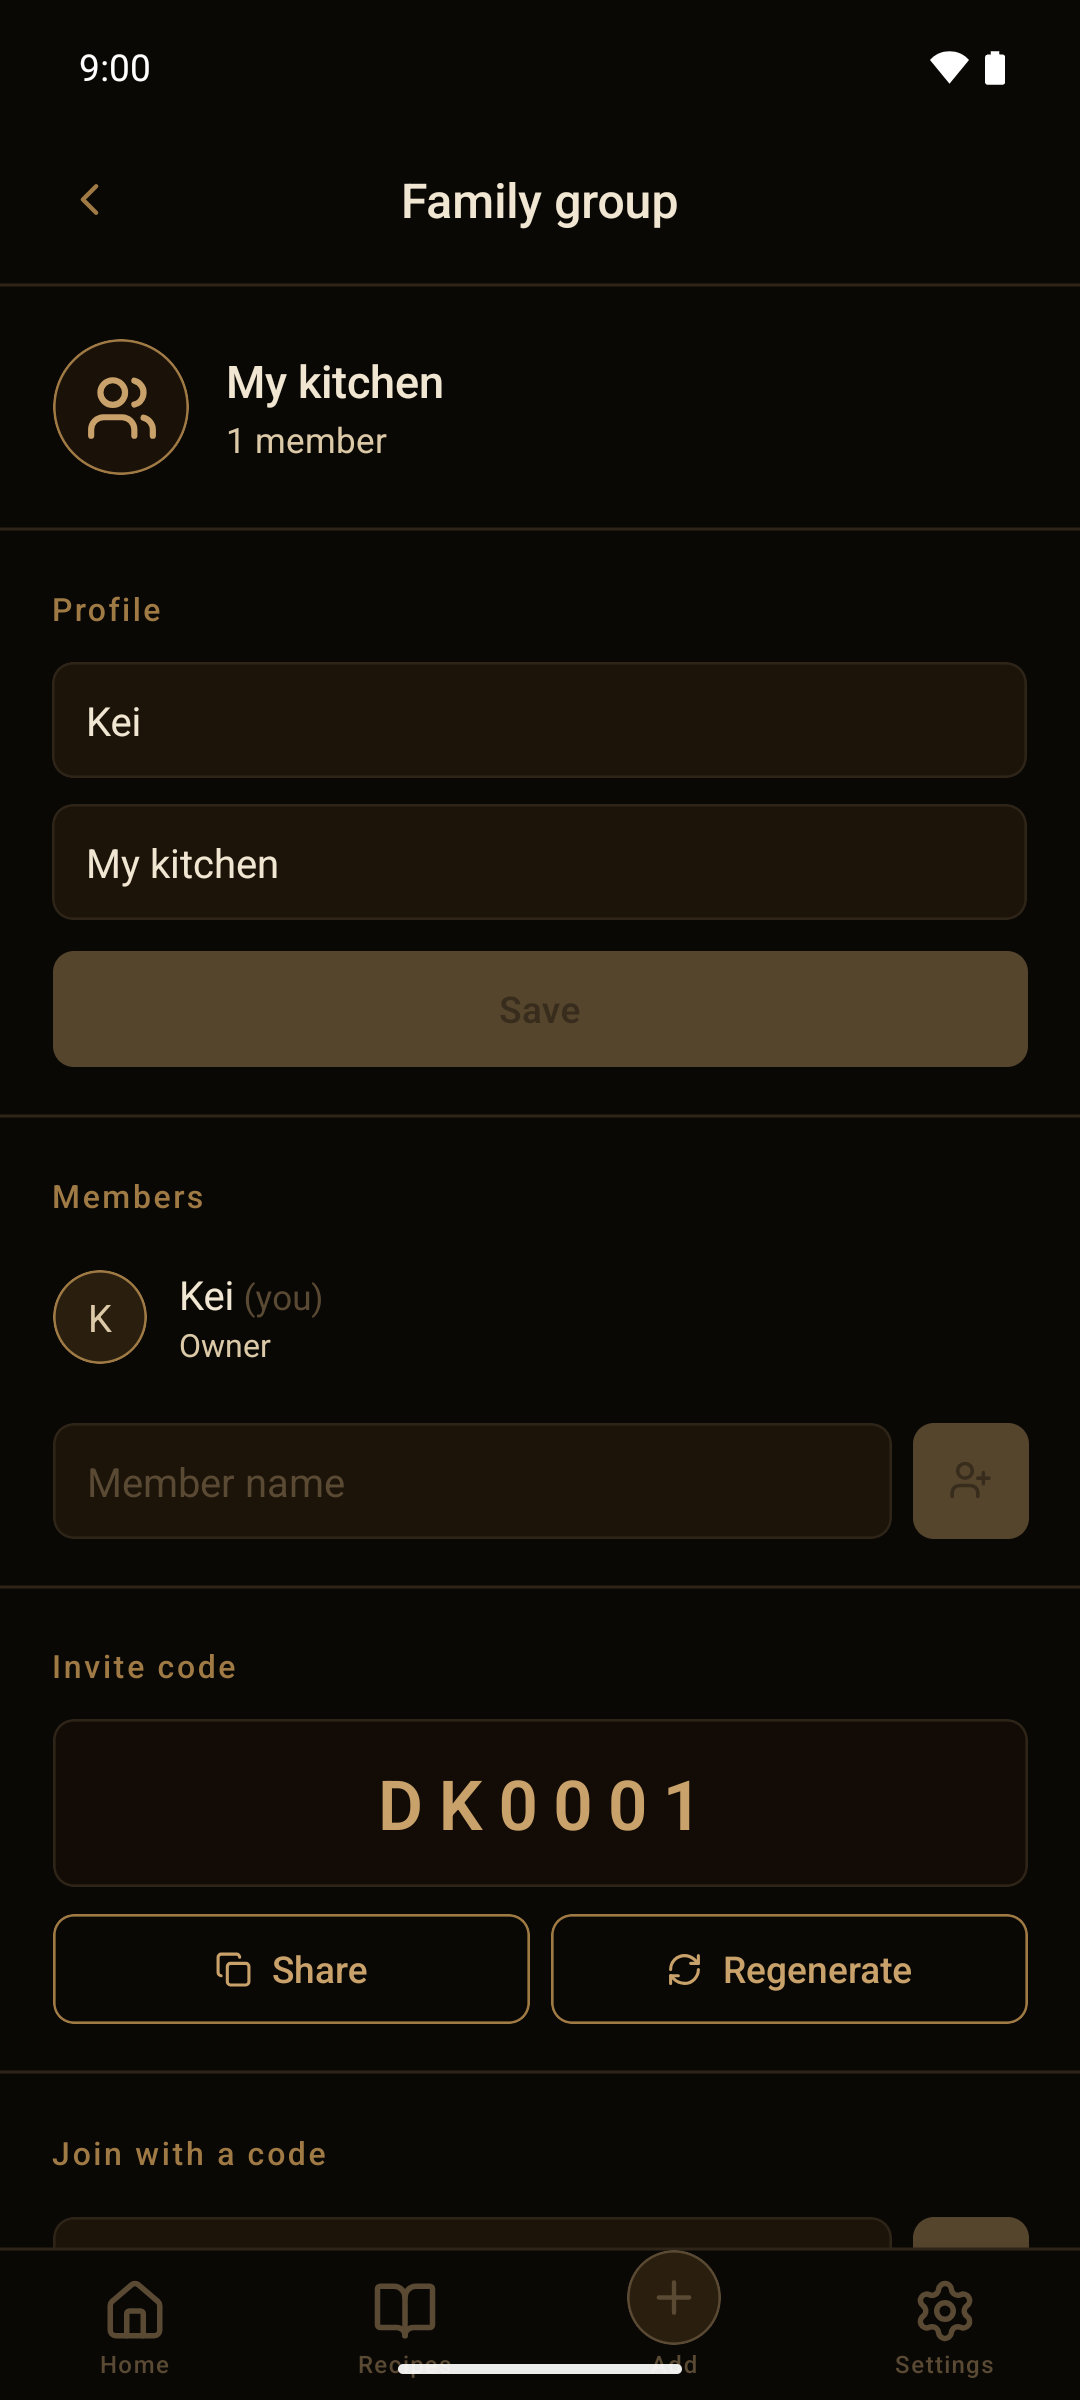
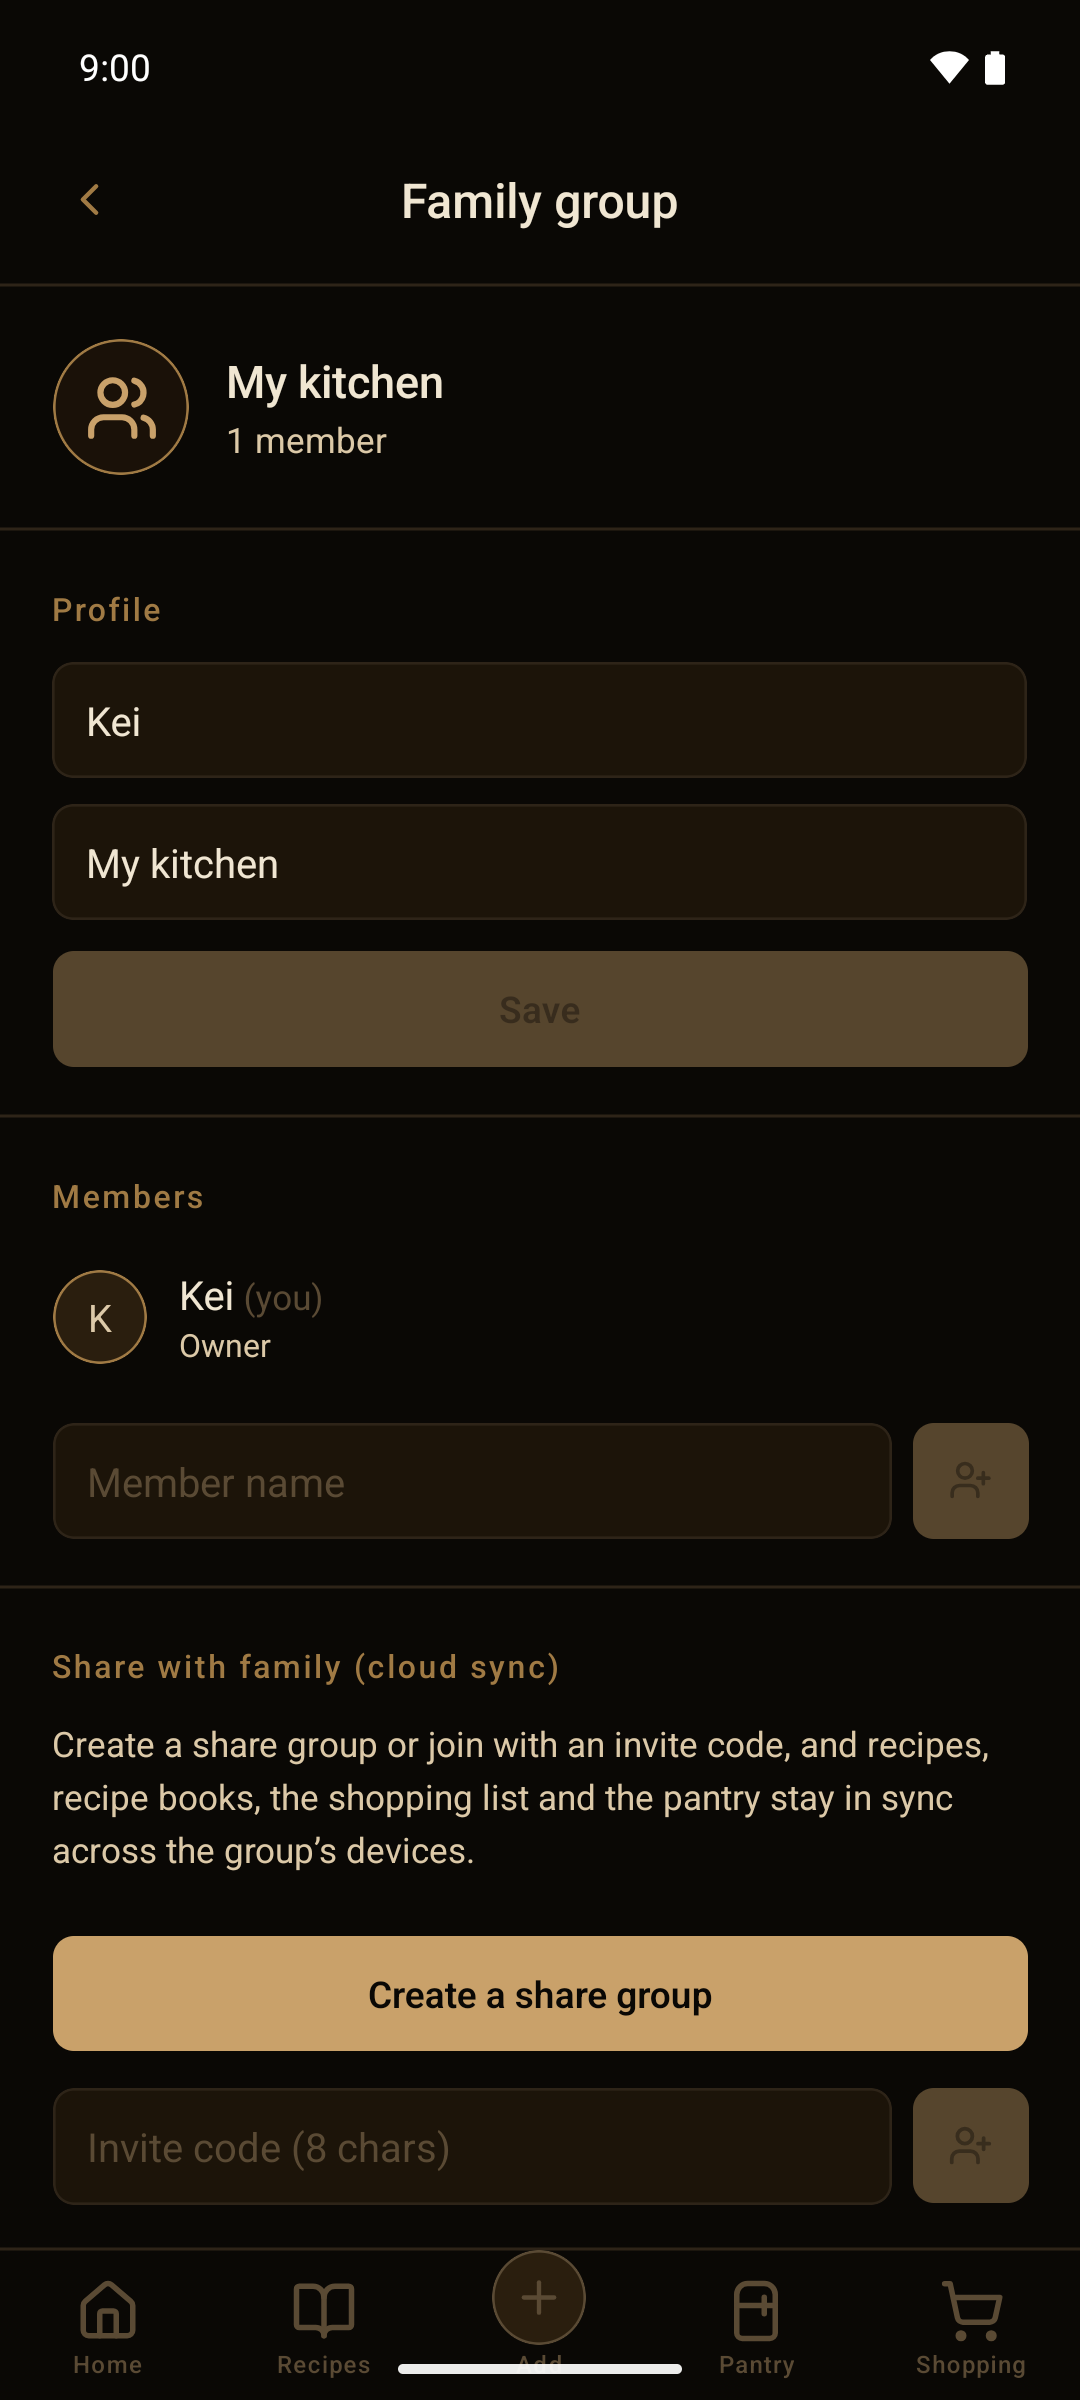
docs(store): Play の英語スクショを 1.12.1 で撮り直す
旧版は **#217 / #219 より前の 4 タブ UI**（ホーム/レシピ/追加/設定）で、買物・在庫の
タブが無かった。現行アプリと違う画面を英語圏の利用者に見せている状態だったので、
全 8 枚を撮り直した。

エミュレータ `daidoko_e2e_fresh_api36`（1080x2400・Android 16）を `-wipe-data` で起動し、
**初回起動前にアプリ言語を en-US にして**英語シードを走らせた。

- 全画面が英語。**単位もヤード・ポンド法に換算される**（0.38 oz / 1 tbsp / 4 cups）
- ヒーロー（`10`）は同梱のシード写真（Creamy Scrambled Egg Toast）
- `08` は**本番サーバー経由の実物の AI 下書き**（Fried Polenta with Creamy Sauce and Herbs）。
  撮影後に破棄したので蔵書には残っていない（`01` / `02` はシードのみ）
- ステータスバーは 6 枚で完全一致（デモモード・9:00・Wi-Fi・満充電・通知なし）

**日本語版は据え置く。** 1.12.1 で変わったのは #222 のレイアウト修正だが、掲載データは
既に材料名を短くして回避してあるので描画が変わらない。#221 / #220 は掲載スクショに
写らない画面。解像度が日英で違う（2432 / 2400）が、寸法の検証は言語ごとなので問題ない。

## 撮影中に踏んだこと（`開発ハーネス.md` §4 に記録）

- **エミュレータで `adb push` が無言で失敗する。**「1 file pushed」と出るのに
  ファイルがどこにも存在しない（`/sdcard` も `/data/local/tmp` も）。`adb root` を挟んでも同じ。
  **シェル経由の書き込みは通る**ので base64 で流し込んだ
- **`am broadcast MEDIA_SCANNER_SCAN_FILE` は効かない**（Android 13+ で無効化）。
  `content call --method scan_volume` を叩く。`cmd media scan` は「Can not find service: media」
- **エミュレータは ICMP を通さないので `ping` は必ず失敗する。** 疎通は
  `dumpsys connectivity` の `VALIDATED` で見る（`curl` は入っていない）
- **疑似カメラは「漫画の家」の風景**で、料理写真の代わりにならない
- スクリプトの `--locale` は終了時に端末既定へ戻すので、手動ショットの前に打ち直す

diff --git a/docs/store/google-play/phone-screenshots-en/README.md b/docs/store/google-play/phone-screenshots-en/README.md
@@ -15,6 +15,31 @@ node scripts/release/capture-store-screenshots.mjs \
   一度きりなので、**データを消した端末に入れてから**撮ること（`-wipe-data` でエミュを起動し直す）
 - 反映: `node scripts/release/update-play-screenshots.mjs --lang en-US`（下表の順に upload）
 
+## 現在の中身（2026-08-27 更新・1.12.1 / versionCode 10031）
+
+**エミュレータ `daidoko_e2e_fresh_api36`（1080x2400）で全 8 枚を撮り直した。**
+旧版は #217 / #219 より前の **4 タブ UI**（ホーム/レシピ/追加/設定）で、
+買物・在庫のタブが無かった。
+
+- 全画面が英語シード（`seed.en.ts`）。**単位もヤード・ポンド法に換算されている**
+  （0.38 oz / 1 tbsp / 4 cups）
+- ヒーロー（`10`）は同梱のシード写真（Creamy Scrambled Egg Toast）
+- `08` は**本番サーバー経由の実物の AI 下書き**（Fried Polenta with Creamy Sauce and Herbs）。
+  撮影後に破棄したので蔵書には残っていない（`01` / `02` はシードのみ）
+
+> **日本語版（1080x2432・実機）とは解像度が違うが、寸法の検証は言語ごとなので問題ない。**
+> 日本語版は実際の料理写真を使っており、英語版はシードのみ — この差は意図的。
+
+### 撮るときに踏んだこと
+
+- **`adb push` が無言で失敗する**（`docs/開発ハーネス.md` §4）。base64 で流し込む
+- `MEDIA_SCANNER_SCAN_FILE` のブロードキャストは効かない。
+  `content call --uri content://media/external --method scan_volume --arg external_primary`
+- **スクリプトの `--locale` は終了時に端末既定へ戻す。** 手動ショット（`08` / `10`）を撮る前に
+  `cmd locale set-app-locales com.daidoko.app --locales en-US` を打ち直すこと
+- デモモードは script が `enter` し直すと Wi-Fi が消えることがある。手で入れてから
+  `--keep-status-bar` で撮ると揃う
+
 | 順  | ファイル                     | 内容                                     |
 | --- | ---------------------------- | ---------------------------------------- |
 | 1   | `10-recipe-detail-photo.png` | 料理写真つきレシピ詳細（ヒーロー）       |

diff --git a/docs/開発ハーネス.md b/docs/開発ハーネス.md
@@ -214,6 +214,25 @@ iOS 向け submit（`-p ios` / `--platform ios`）はこのガード対象外。
   2 つのブランチに別々に存在した。**`record-device-verification.mjs` は headCommit を
   記録する**ので、`git diff <headCommit> <tag> -- apps/` が空かどうかで対応は確かめられる。
   提出は `--id <BUILD_ID>` で固定する（`docs/リリース手順.md` §2-6）
+- **エミュレータ（API 36）で `adb push` が無言で失敗することがある**（2026-08-27）。
+  「1 file pushed」と出るのに**ファイルがどこにも存在しない** — `/sdcard` も `/data/local/tmp` も。
+  `adb root` を挟んでも同じ。**シェル経由の書き込み（`cp`・リダイレクト）は通る**ので、
+  ファイルを送りたいときは base64 で流す:
+
+  ```bash
+  base64 -w0 local.jpg > /c/tmp/x.b64
+  adb -s <emu> shell "cat > /data/local/tmp/x.b64" < /c/tmp/x.b64
+  adb -s <emu> shell 'base64 -d /data/local/tmp/x.b64 > /sdcard/Pictures/x.jpg'
+  ```
+
+  さらに **`am broadcast MEDIA_SCANNER_SCAN_FILE` は効かない**（Android 13+ で無効化）。
+  ギャラリーに出すには `content call --uri content://media/external --method scan_volume
+--arg external_primary` を叩く。`cmd media scan` は「Can not find service: media」で失敗する
+
+- **エミュレータは ICMP を通さないので `ping` は必ず失敗する。** 疎通を確かめるなら
+  `dumpsys connectivity` の `VALIDATED` を見る（`curl` はエミュレータに入っていない）
+- **エミュレータの疑似カメラは「漫画の家」の風景**なので、料理写真の代わりにならない。
+  AI にかけると当然おかしなレシピが出る。写真が要る検証は上の base64 で入れる
 - **`adb devices` のシリアルが IMEI のことがある**（AQUOS SH-RM19s・2026-08-27）。
   Sharp / 国内キャリア系の端末は USB シリアルとして **IMEI をそのまま返す**。
   `docs/verification/*.json` 11 件すべてに Luhn 検証を通る有効な IMEI が入っていた
